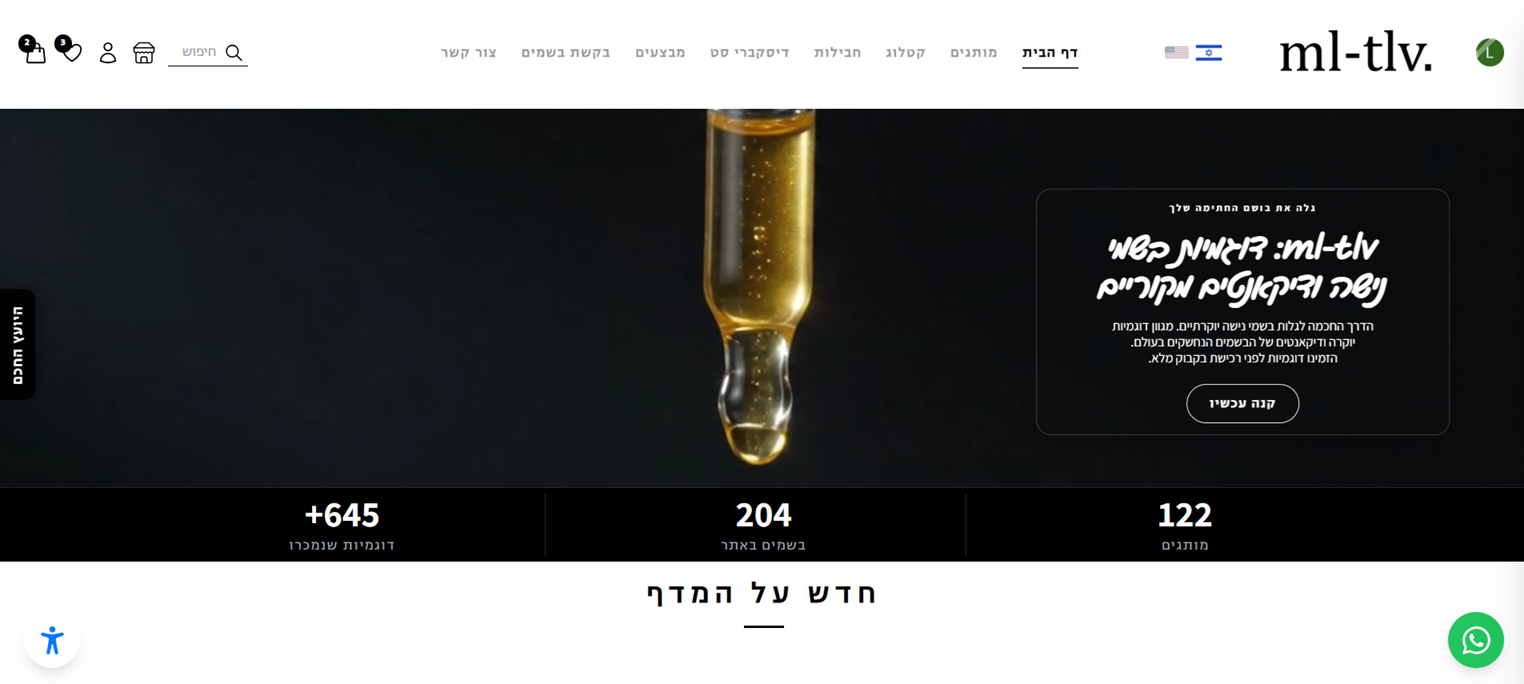
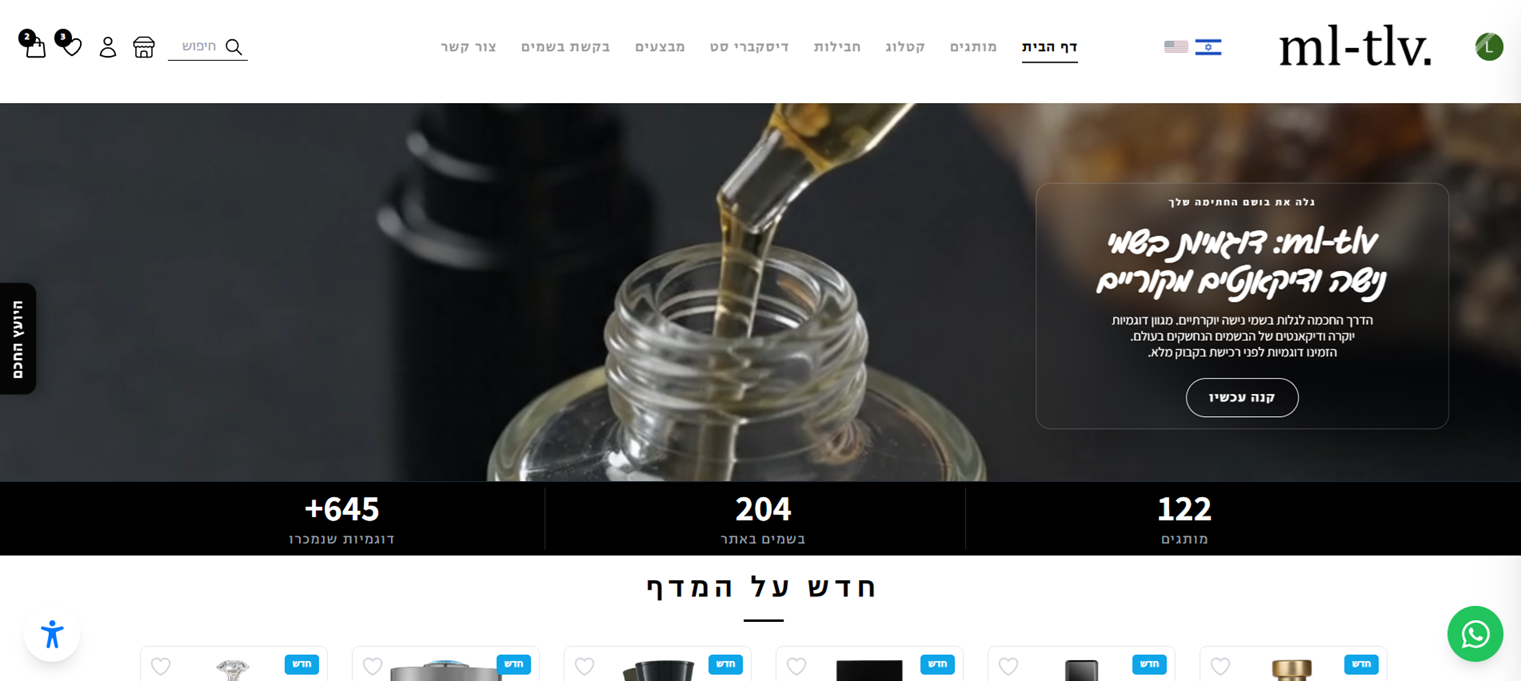
style: increase project description line clamp to 5 to prevent truncation, and update ml-tlv image

diff --git a/src/components/ui/project-card.tsx b/src/components/ui/project-card.tsx
@@ -39,7 +39,7 @@ export function ProjectCard({ project }: ProjectCardProps) {
           <h3 className="text-lg font-bold text-white font-poppins mb-2.5 group-hover:text-indigo-300 transition-colors">
             {project.title}
           </h3>
-          <p className="text-xs sm:text-sm text-zinc-400 font-light leading-relaxed mb-6 line-clamp-4">
+          <p className="text-xs sm:text-sm text-zinc-400 font-light leading-relaxed mb-6 line-clamp-5">
             {project.description}
           </p>
         </div>